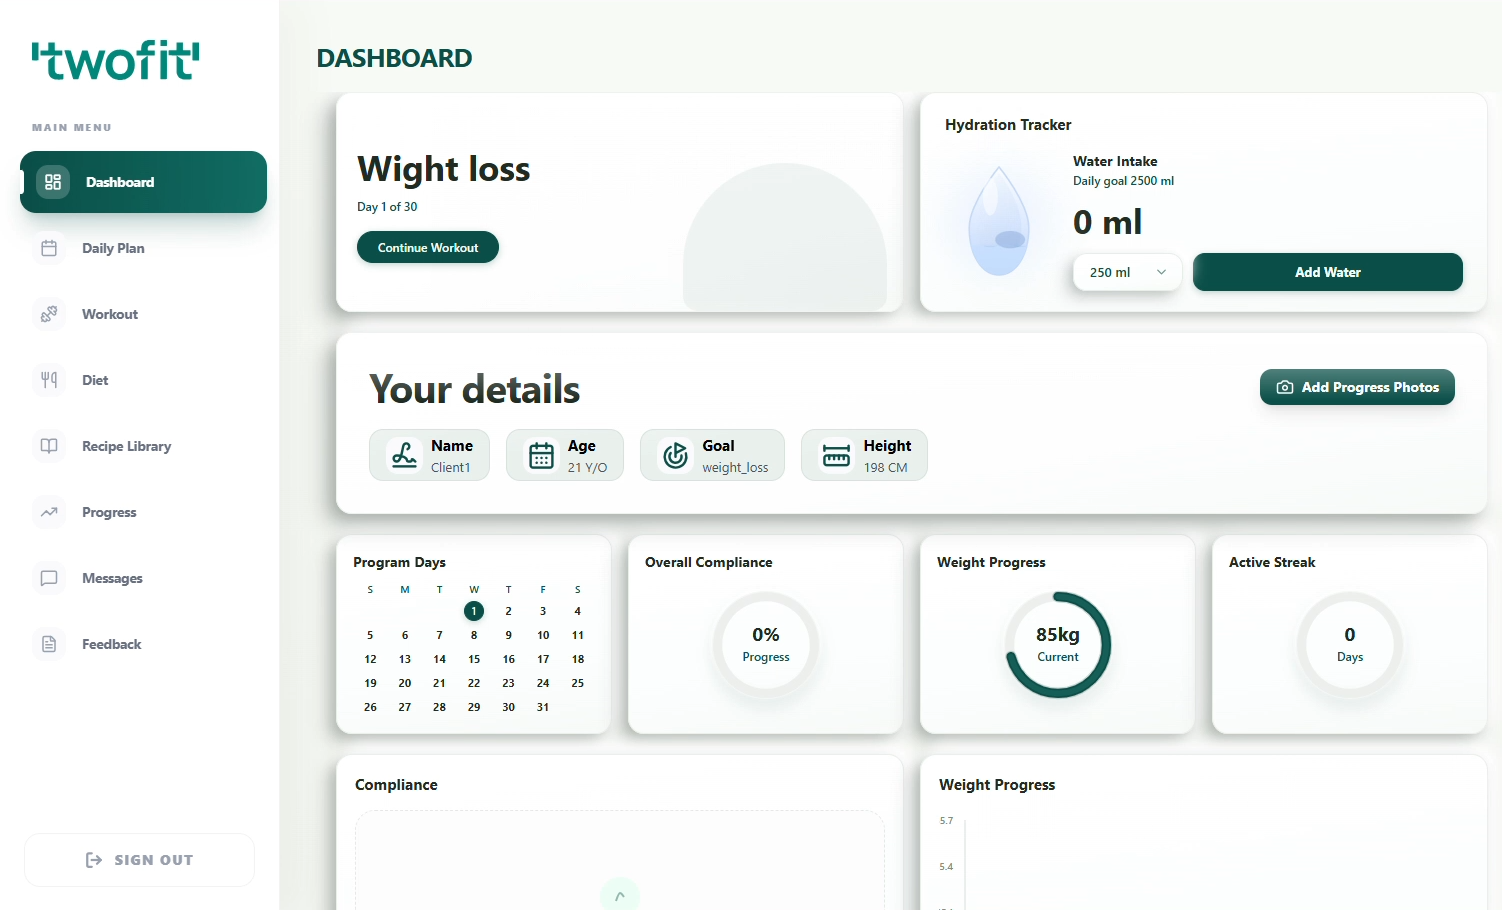
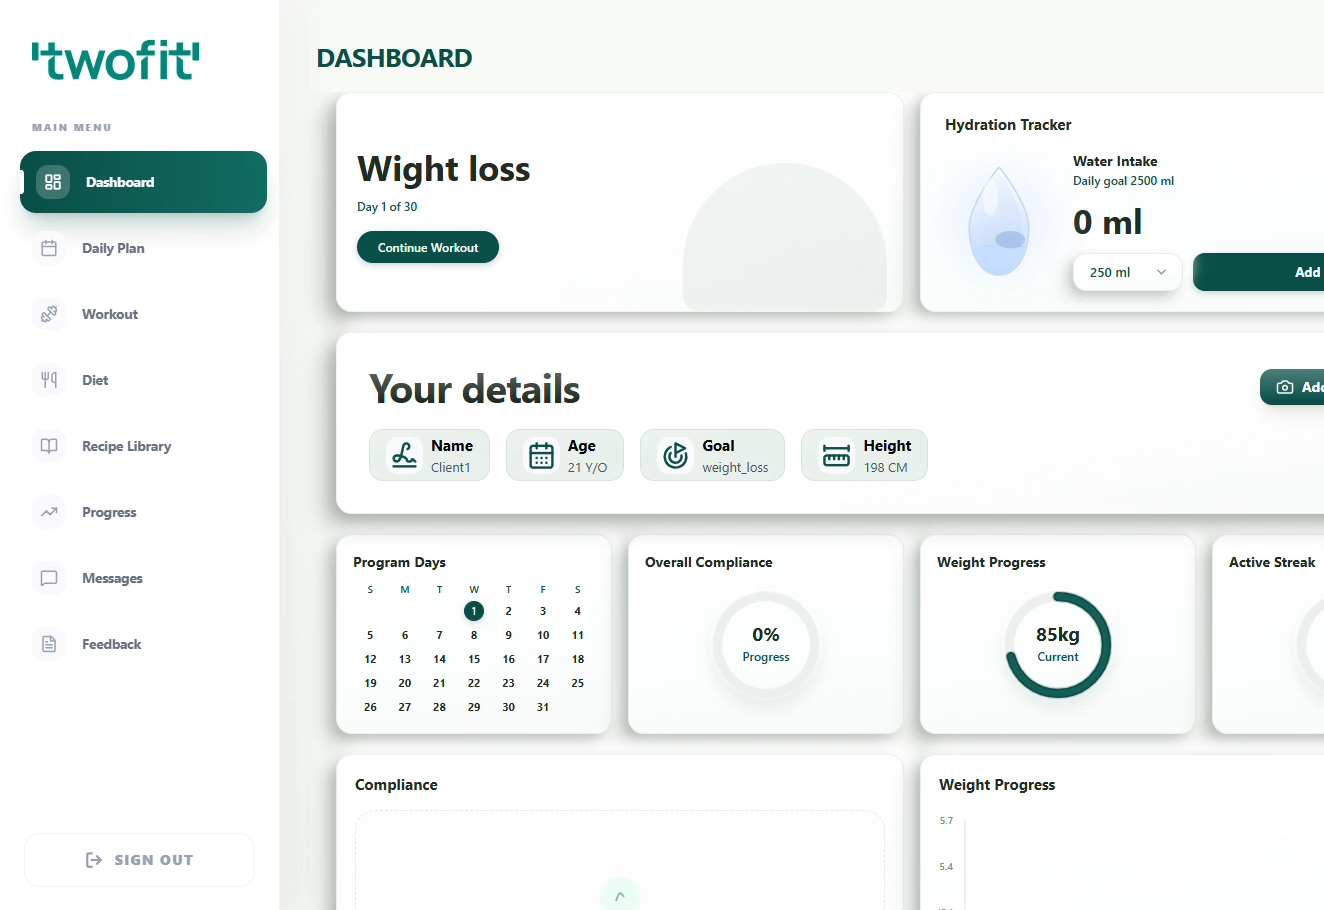
project img edited

diff --git a/src/components/Works.jsx b/src/components/Works.jsx
@@ -24,16 +24,19 @@ const ProjectCard = ({
           scale: 1,
           speed: 450,
         }}
-        className='bg-tertiary p-5 rounded-2xl sm:w-[360px] w-full'
+        className="bg-tertiary p-5 rounded-2xl sm:w-[360px] w-full"
       >
-        <div className='relative w-full h-[230px]'>
+        <div
+          onClick={() => window.open(source_code_link, "_blank")}
+          className="relative w-full h-[230px]"
+        >
           <img
             src={image}
-            alt='project_image'
-            className='w-full h-full object-cover rounded-2xl'
+            alt="project_image"
+            className="w-full h-full object-cover rounded-2xl"
           />
 
-          <div className='absolute inset-0 flex justify-end m-3 card-img_hover'>
+          {/* <div className='absolute inset-0 flex justify-end m-3 card-img_hover'>
             <div
               onClick={() => window.open(source_code_link, "_blank")}
               className='black-gradient w-10 h-10 rounded-full flex justify-center items-center cursor-pointer'
@@ -44,15 +47,15 @@ const ProjectCard = ({
                 className='w-1/2 h-1/2 object-contain'
               />
             </div>
-          </div>
+          </div> */}
         </div>
 
-        <div className='mt-5'>
-          <h3 className='text-white font-bold text-[24px]'>{name}</h3>
-          <p className='mt-2 text-secondary text-[14px]'>{description}</p>
+        <div className="mt-5">
+          <h3 className="text-white font-bold text-[24px]">{name}</h3>
+          <p className="mt-2 text-secondary text-[14px]">{description}</p>
         </div>
 
-        <div className='mt-4 flex flex-wrap gap-2'>
+        <div className="mt-4 flex flex-wrap gap-2">
           {tags.map((tag) => (
             <p
               key={`${name}-${tag.name}`}
@@ -75,20 +78,20 @@ const Works = () => {
         <h2 className={`${styles.sectionHeadText}`}>Projects.</h2>
       </motion.div>
 
-      <div className='w-full flex'>
+      <div className="w-full flex">
         <motion.p
           variants={fadeIn("", "", 0.1, 1)}
-          className='mt-3 text-secondary text-[17px] max-w-3xl leading-[30px]'
+          className="mt-3 text-secondary text-[17px] max-w-3xl leading-[30px]"
         >
-          Following projects showcases my skills and experience through
-          real-world examples of my work. Each project is briefly described with
-          links to code repositories and live demos in it. It reflects my
-          ability to solve complex problems, work with different technologies,
-          and manage projects effectively.
+          A collection of projects that showcase my experience in building
+          modern web applications and digital solutions. Each project
+          demonstrates my skills in development, problem-solving, and working
+          with different technologies to create scalable, responsive, and
+          user-friendly experiences.
         </motion.p>
       </div>
 
-      <div className='mt-20 flex flex-wrap gap-7'>
+      <div className="mt-20 flex flex-wrap gap-7">
         {projects.map((project, index) => (
           <ProjectCard key={`project-${index}`} index={index} {...project} />
         ))}

diff --git a/src/constants/index.js b/src/constants/index.js
@@ -20,8 +20,8 @@ import {
   tesla,
   shopify,
   twofit,
-  jobit,
-  tripguide,
+  ASH_LMS,
+  merciaChatBot,
   threejs,
 } from "../assets";
 
@@ -191,7 +191,7 @@ const projects = [
       },
     ],
     image: twofit,
-    source_code_link: "https://github.com/",
+    source_code_link: "https://app.twofit.in/login",
   },
 
   {
@@ -220,8 +220,8 @@ const projects = [
         color: "green-text-gradient",
       },
     ],
-    image: twofit,
-    source_code_link: "https://github.com/",
+    image: ASH_LMS,
+    source_code_link: "https://ashacademylms.com/courses",
   },
 
   {
@@ -254,8 +254,8 @@ const projects = [
         color: "green-text-gradient",
       },
     ],
-    image: twofit,
-    source_code_link: "https://github.com/",
+    image: merciaChatBot,
+    source_code_link: "",
   },
 ];
 

diff --git a/src/assets/index.js b/src/assets/index.js
@@ -27,8 +27,8 @@ import starbucks from "./company/starbucks.png";
 import tesla from "./company/tesla.png";
 
 import twofit from "./twofit.png";
-import jobit from "./jobit.png";
-import tripguide from "./tripguide.png";
+import ASH_LMS from "./ASH-LMS.png";
+import merciaChatBot from "./mercia chat bot.png";
 
 export {
   logo,
@@ -57,6 +57,6 @@ export {
   starbucks,
   tesla,
   twofit,
-  jobit,
-  tripguide,
+  ASH_LMS,
+  merciaChatBot,
 };
